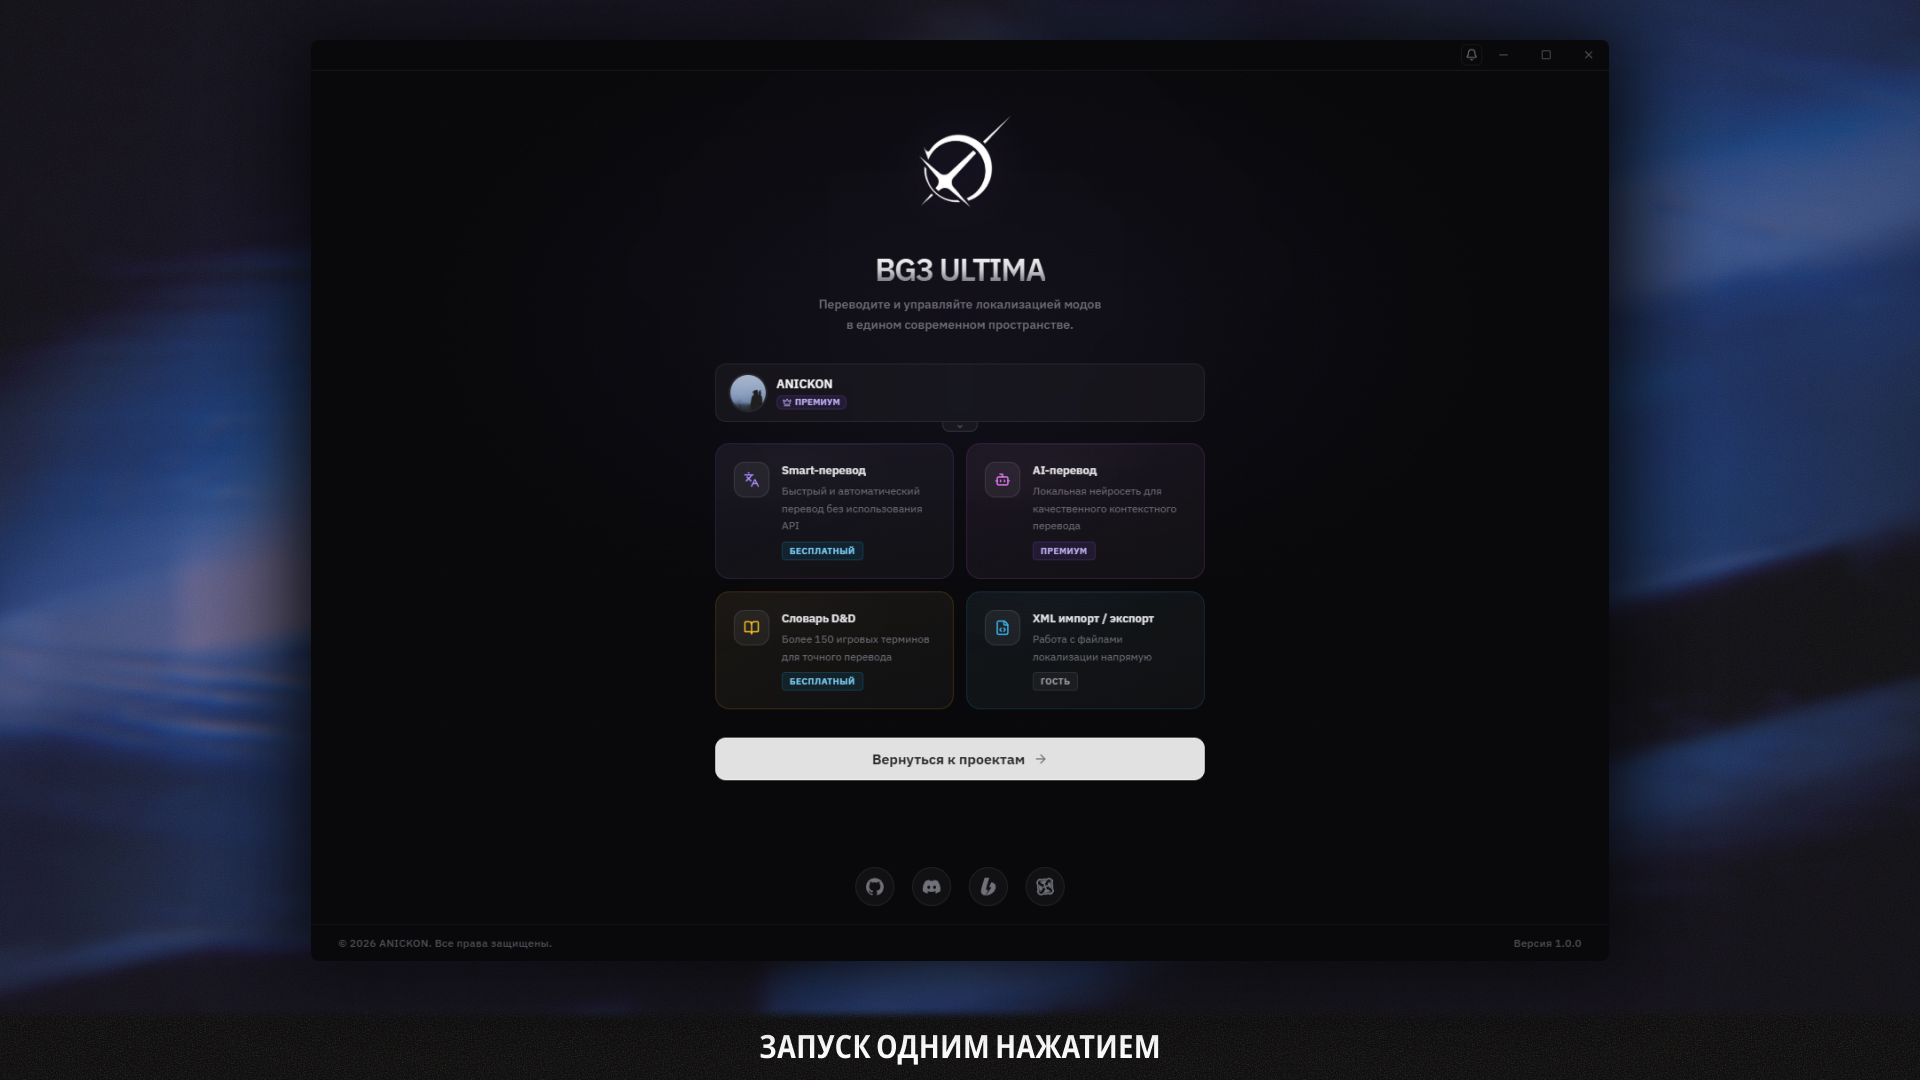
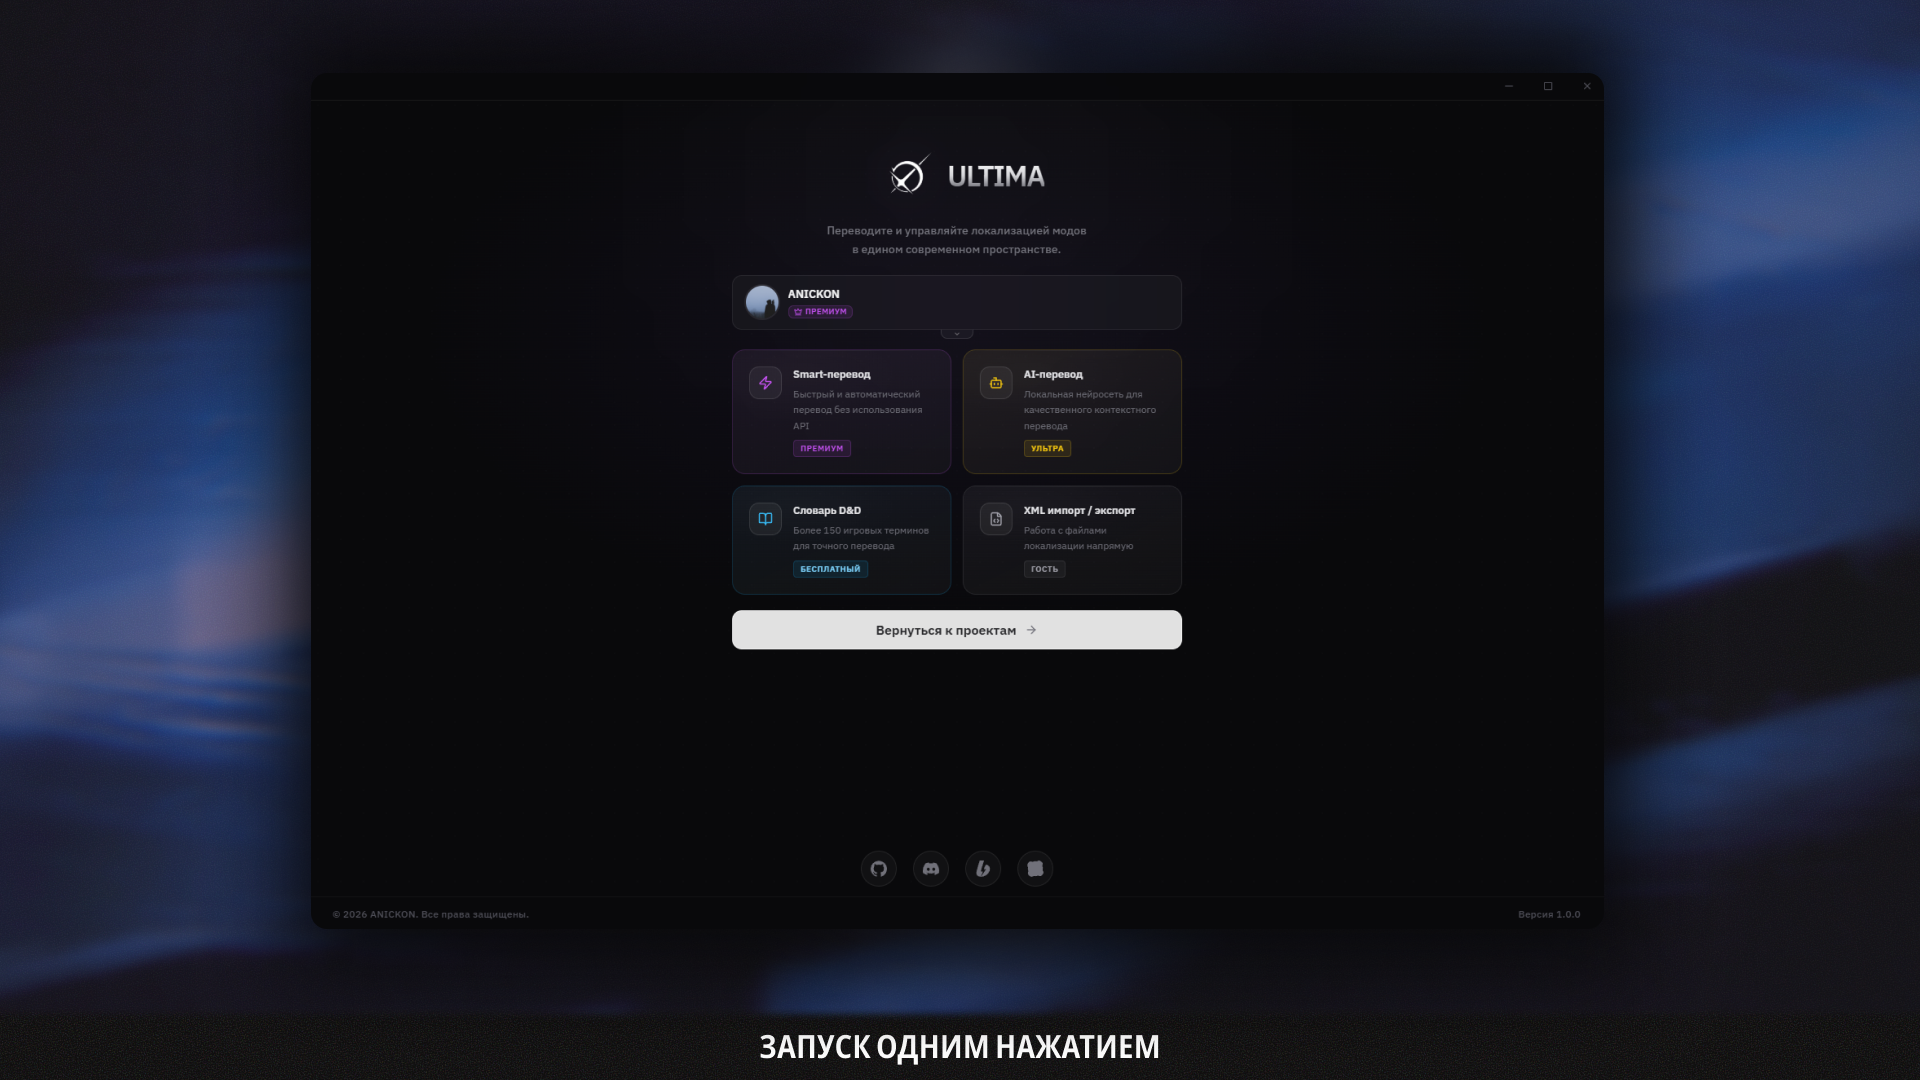
FIX #4 | Обновление медиа-картинок

diff --git a/Frontend/Core/TitleBar/TitleBarCore.jsx b/Frontend/Core/TitleBar/TitleBarCore.jsx
@@ -1,6 +1,7 @@
 import React, { useState, useEffect, useCallback, useRef } from 'react';
 import { ChevronRight, ArrowUp } from 'lucide-react';
 import { WindowControls } from '@Core/TitleBar/helpers/TitleBarButtons';
+import logoSrc from '@Assets/logo.png';
 import NotifyCenter from '@Shared/notifications/notifyCenter';
 import UnsavedChangesModal from '@UI/Modal/UnsavedChangesModal';
 import { useLocale } from '@Locales/LocaleProvider';
@@ -29,6 +30,7 @@ function TitleBarCore({
   showUpdaterUI,
   onShowUpdateModal,
   onAtpModalClick,
+  showBranding = true,
 }) {
   const t = useLocale();
   const [confirmModal, setConfirmModal] = useState(INITIAL_CONFIRM);
@@ -107,6 +109,13 @@ function TitleBarCore({
       </div>
 
       <div className="flex-1" />
+
+      {showBranding && (
+        <div className="absolute left-1/2 -translate-x-1/2 flex items-center gap-1.5 pointer-events-none">
+          <img src={logoSrc} alt="ULTIMA" className="w-10 h-10 object-contain opacity-100" />
+          <span className="text-[14px] font-bold text-zinc-300 tracking-widest uppercase leading-none">ULTIMA</span>
+        </div>
+      )}
 
       <div className="flex items-center gap-2 shrink-0 justify-end" style={{ WebkitAppRegion: 'no-drag' }}>
         {updaterState?.status === 'download-progress' && (

diff --git a/Frontend/App.jsx b/Frontend/App.jsx
@@ -195,6 +195,7 @@ export default function App() {
           showUpdaterUI={showUpdaterUI}
           onShowUpdateModal={() => appState.setUpdateModalOpen(true)}
           onAtpModalClick={() => setIsAtpModalOpen(true)}
+          showBranding={!appState.isHomeOverlayOpen}
         />
 
         <OfflineBanner />
